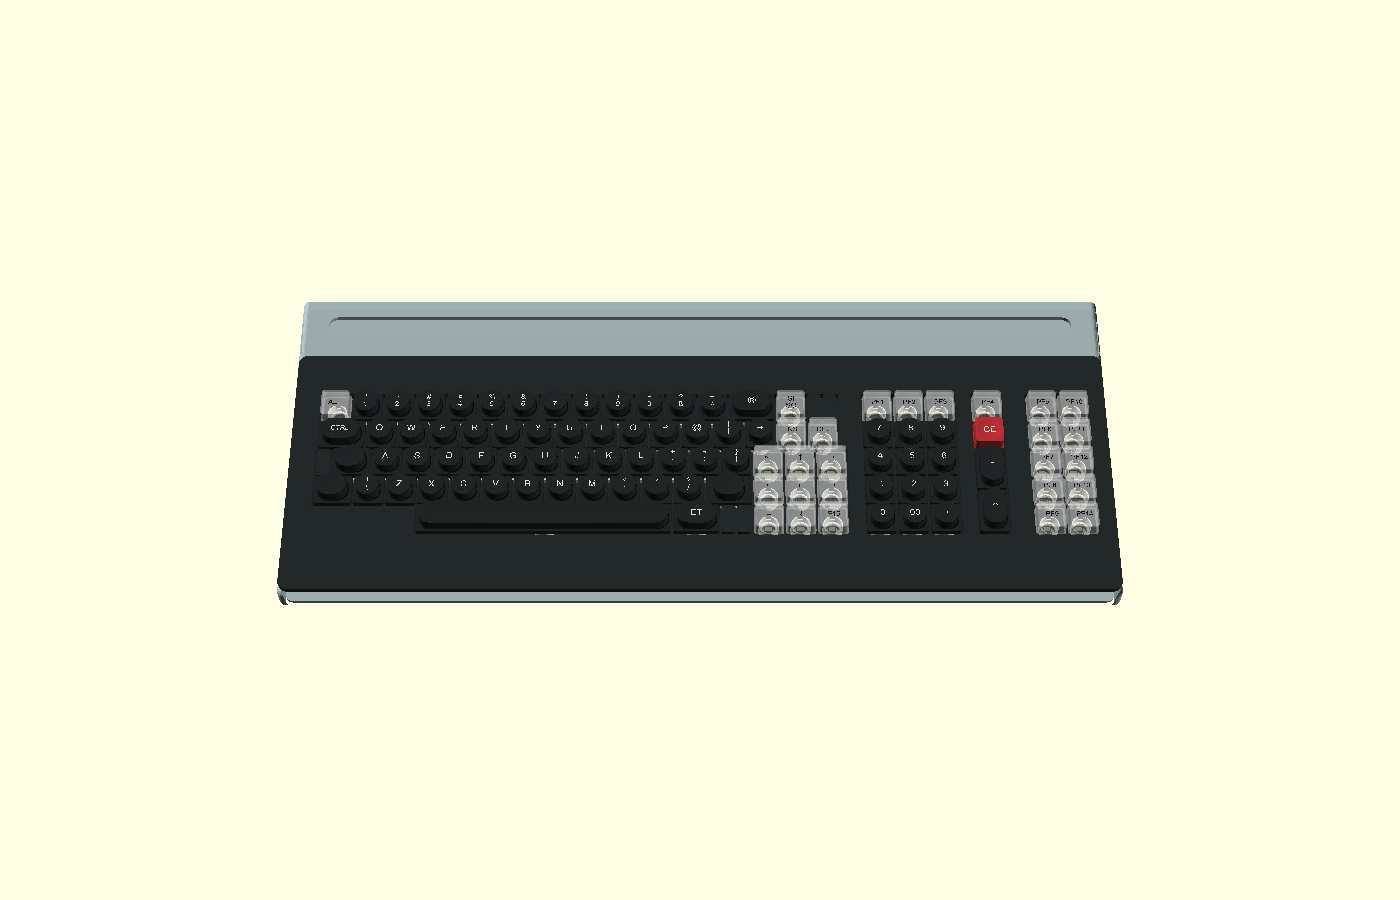
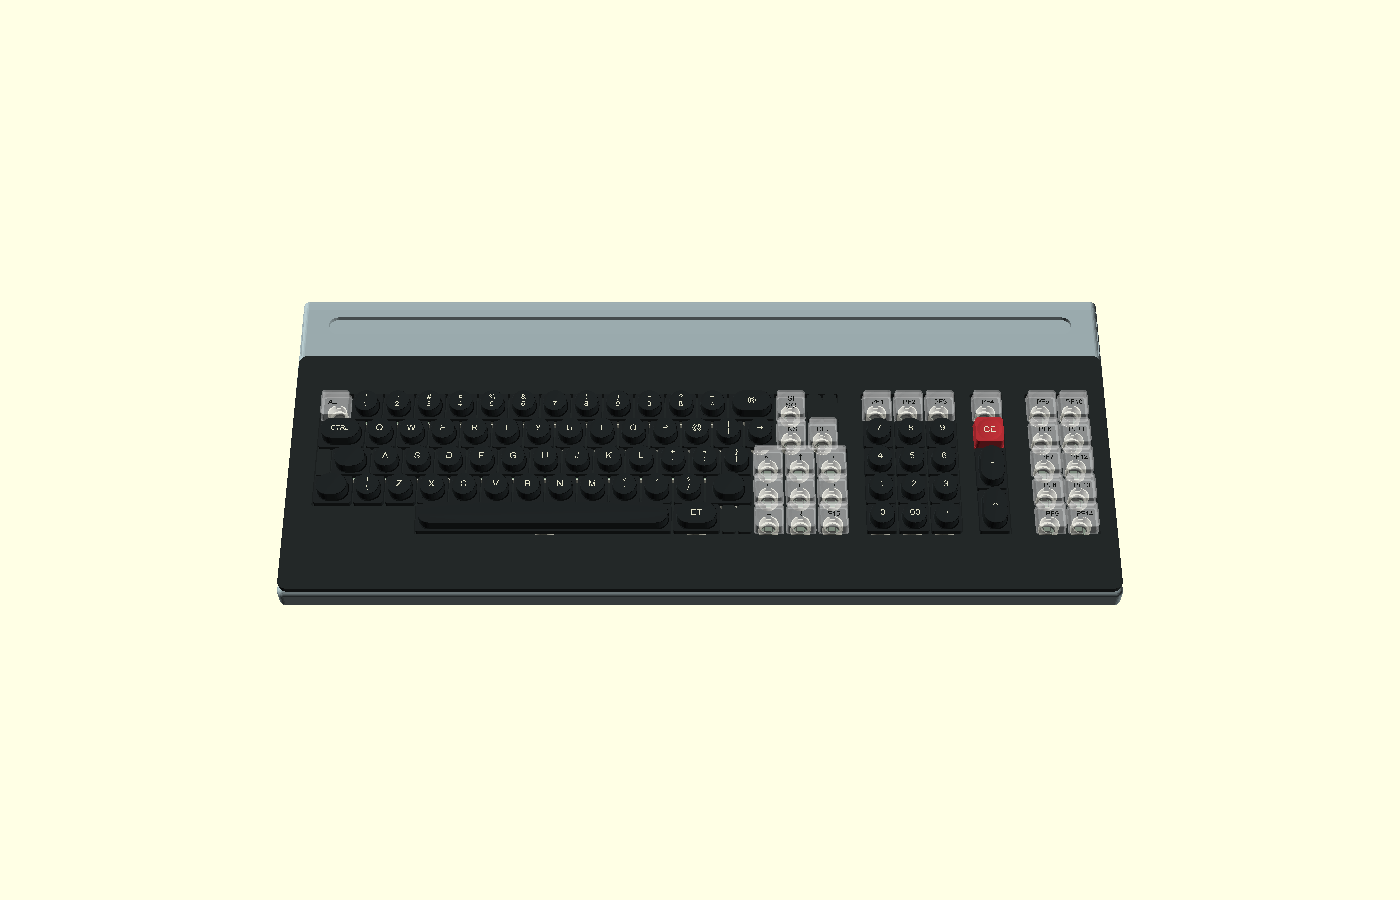
Preserve keyboard front fascia around tilted deck aperture

Changed region(s): [[0.1843, 0.6533, 0.7986, 0.6844]]

diff --git a/models/robotron-1715m/keyboard/render.py b/models/robotron-1715m/keyboard/render.py
@@ -8,20 +8,23 @@ import time
 
 root = Path(__file__).resolve().parent
 parser = argparse.ArgumentParser(description=__doc__)
-parser.add_argument('--view', choices=['assembled', 'exploded', 'boards', 'all'], default='all')
+parser.add_argument('--view', choices=['assembled', 'front', 'exploded', 'boards', 'all'], default='all')
 args = parser.parse_args()
 keys = json.loads((root.parent / 'keyboard-layout.json').read_text())
 (root / 'legends.scad').write_text(
     '// Generated from ../keyboard-layout.json; same order as ../keyboard-layout.scad.\n'
     + 'key_legends=' + json.dumps([k.get('legend', [k['label']]) for k in keys], ensure_ascii=False) + ';\n')
-for view in (['assembled', 'exploded', 'boards'] if args.view == 'all' else [args.view]):
+for view in (['assembled', 'front', 'exploded', 'boards'] if args.view == 'all' else [args.view]):
     filename = 'preview.png' if view == 'assembled' else view + '.png'
     camera = '0,0,0,65,0,25,850' if view == 'exploded' else '0,0,0,35,0,0,850'
+    if view == 'front':
+        camera = '0,0,0,82,0,15,850'
+    scene_view = 'assembled' if view == 'front' else view
     started = time.monotonic()
     result = subprocess.run([
         'openscad', '--backend', 'Manifold', '--preview', '--imgsize=1400,900',
         '--viewall', '--autocenter', '--camera=' + camera,
-        '-D', 'view=' + json.dumps(view), '-D', 'show_springs=' + str(view == 'exploded').lower(),
+        '-D', 'view=' + json.dumps(scene_view), '-D', 'show_springs=' + str(view == 'exploded').lower(),
         '-o', str(root / filename), str(root / 'model.scad'),
     ], capture_output=True, text=True)
     if result.returncode or 'ERROR:' in result.stderr or 'WARNING:' in result.stderr:

diff --git a/models/robotron-1715m/keyboard/README.md b/models/robotron-1715m/keyboard/README.md
@@ -10,6 +10,7 @@ assembled positions. Shell/deck/key/core/inlay/PCB/rubber colors are editable.
 Clear keys have a separate silver inlay and configurable shell alpha.
 
 - [Assembled preview](preview.png)
+- [Low front preview](front.png)
 - [Exploded preview with springs](exploded.png)
 - [PCB/contact preview](boards.png)
 
@@ -28,11 +29,12 @@ From this directory:
 
 ```sh
 python3 render.py --view assembled  # one quick color PNG
-python3 render.py                   # all three review views
+python3 render.py --view front      # check front fascia and deck joint
+python3 render.py                   # all four review views
 ```
 
 This uses the installed OpenSCAD build with the Manifold backend. On the current
-Mac, all three previews take only a few seconds. It does not regenerate STLs,
+Mac, all four previews take only a few seconds. It does not regenerate STLs,
 rebuild the complete computer, sync DAC, or run browser/emulator CI. Review shape,
 spacing, colors and internals here first; then export only the affected canonical
 parts and sync the museum once the change is ready.
@@ -49,3 +51,7 @@ STL does not carry color; keep the SCAD source and color PNGs for visual review.
 Preview transparency is not a simulation of glass, metal reflection or rubber.
 The assembled keyboard is a visual reference, not one printable part. Existing
 photo-derived dimensions and hidden construction remain provisional.
+
+The deck aperture is clipped behind the 3 mm front wall. Without this limit,
+its tilted cutter removed the front fascia and exposed the PCB edge. The low
+front preview checks that the shell closes beneath the deck.
